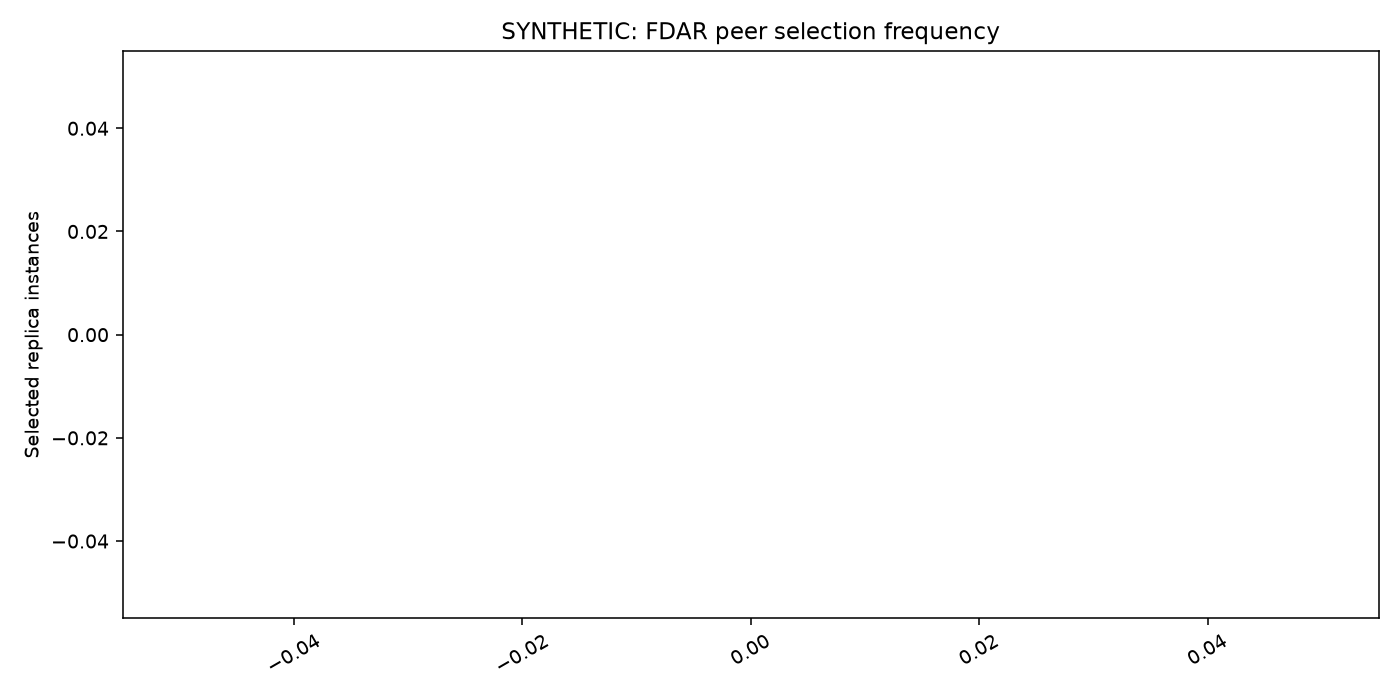
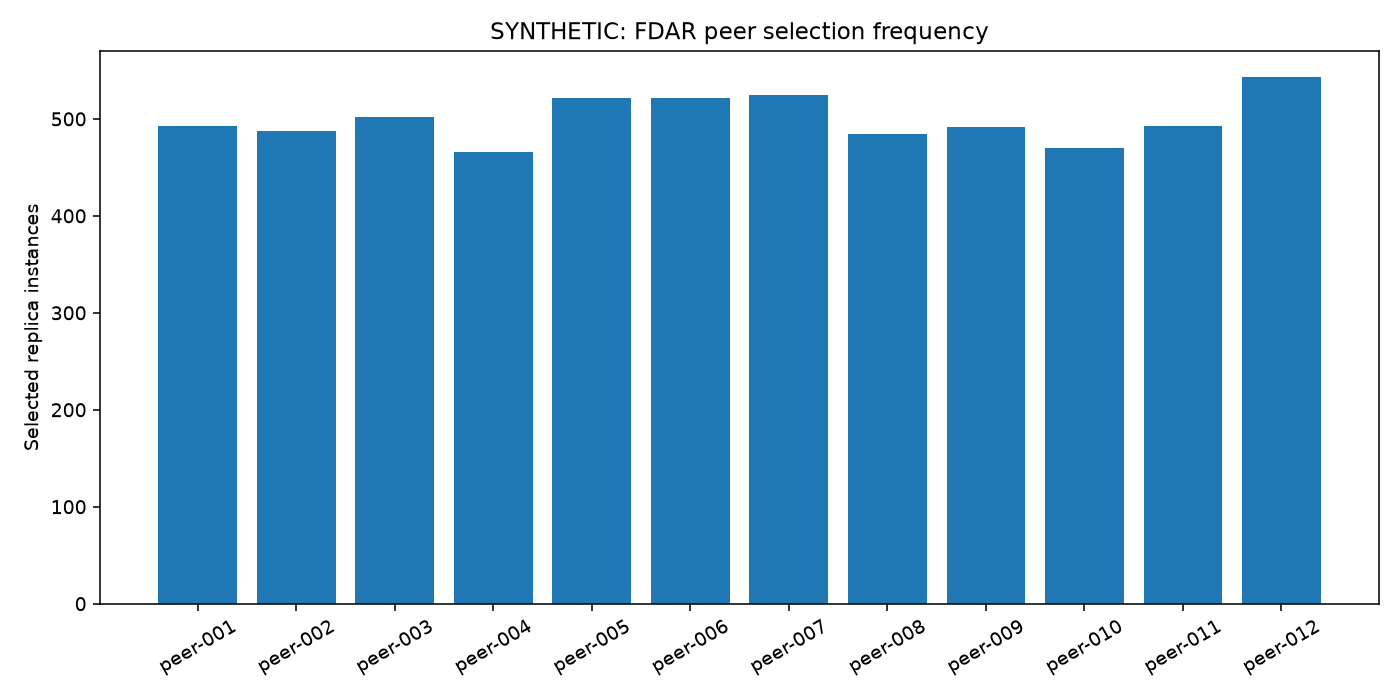
Correct synthetic evaluation plots

diff --git a/src/location_verifier/experiments/plotting.py b/src/location_verifier/experiments/plotting.py
@@ -11,14 +11,60 @@ matplotlib.use("Agg")
 import matplotlib.pyplot as plt
 
 
+def _verification_status_counts(records: list[dict[str, Any]]) -> Counter[str]:
+    """Count generated peer statuses once per trial and distinct sweep offset."""
+    counts: Counter[str] = Counter()
+    seen: set[tuple[int, int, str, float | None]] = set()
+    for row in records:
+        identity = (
+            row["seed"],
+            row["trial"],
+            row["scenario"],
+            row.get("synthetic_location_mismatch_distance_km"),
+        )
+        if identity not in seen:
+            counts.update(row["verification_statuses"].values())
+            seen.add(identity)
+    return counts
+
+
+def _scenario_policy_categories(rows: list[dict[str, Any]]) -> tuple[list[tuple[str, str]], list[str]]:
+    """Build explicit x-axis categories when scenarios vary placement policy."""
+    categories = sorted({(row["scenario"], row["policy"]) for row in rows})
+    policies_by_scenario: dict[str, set[str]] = defaultdict(set)
+    for scenario, policy in categories:
+        policies_by_scenario[scenario].add(policy)
+    labels = [
+        scenario if len(policies_by_scenario[scenario]) == 1 else f"{scenario} ({policy})"
+        for scenario, policy in categories
+    ]
+    return categories, labels
+
+
 def plot_results(results: dict[str, Any], output_dir: str | Path) -> tuple[Path, ...]:
-    """Write the required plots; all titles/axes explicitly identify synthetic data."""
+    """Write only plots supported by the supplied synthetic records."""
 
     root = Path(output_dir)
     root.mkdir(parents=True, exist_ok=True)
     records = results["records"]
     summaries = results["aggregated"]
     paths: list[Path] = []
+    filenames = (
+        "01_suspicious_selection.png",
+        "02_domain_diversity.png",
+        "03_placement_success.png",
+        "04_reconfiguration_movement.png",
+        "05_peer_selection_frequency.png",
+        "06_domain_selection_frequency.png",
+        "07_verification_status_distribution.png",
+        "08_synthetic_ground_truth_detection.png",
+        "09_synthetic_location_distance_sweep.png",
+    )
+
+    # Remove stale plots from a prior run in the same output directory. These
+    # names are reserved for this function's generated artifacts.
+    for filename in filenames:
+        (root / filename).unlink(missing_ok=True)
 
     def save(fig, filename: str) -> None:
         fig.tight_layout()
@@ -28,96 +74,112 @@ def plot_results(results: dict[str, Any], output_dir: str | Path) -> tuple[Path,
         paths.append(path)
 
     # Plot 1: suspicious selection counts by mode/scenario.
-    groups: dict[tuple[str, str], list[int]] = defaultdict(list)
+    groups: dict[tuple[str, str, str], list[int]] = defaultdict(list)
     for row in records:
-        groups[(row["scenario"], row["mode"])].append(row["suspicious_selected_count"])
-    scenarios = sorted({key[0] for key in groups})
-    fig, axis = plt.subplots(figsize=(11, 5))
-    width = 0.38
-    for offset, mode in enumerate(("BASELINE", "FDAR")):
-        values = [sum(groups.get((name, mode), [])) / max(len(groups.get((name, mode), [])), 1) for name in scenarios]
-        axis.bar([index + (offset - 0.5) * width for index in range(len(scenarios))], values, width, label=mode)
-    axis.set(title="SYNTHETIC: Suspicious replicas selected", ylabel="Mean suspicious selected peers", xticks=range(len(scenarios)), xticklabels=scenarios)
-    axis.tick_params(axis="x", labelrotation=30)
-    axis.legend()
-    save(fig, "01_suspicious_selection.png")
+        if row["scenario"] != "distance_sweep":
+            groups[(row["scenario"], row["policy"], row["mode"])].append(row["suspicious_selected_count"])
+    plot1_rows = [row for row in records if row["scenario"] != "distance_sweep"]
+    categories, labels = _scenario_policy_categories(plot1_rows)
+    if categories:
+        fig, axis = plt.subplots(figsize=(11, 5))
+        width = 0.38
+        for offset, mode in enumerate(("BASELINE", "FDAR")):
+            values = [
+                sum(groups.get((scenario, policy, mode), [])) / max(len(groups.get((scenario, policy, mode), [])), 1)
+                for scenario, policy in categories
+            ]
+            axis.bar([index + (offset - 0.5) * width for index in range(len(categories))], values, width, label=mode)
+        axis.set(title="SYNTHETIC: Suspicious replicas selected", ylabel="Mean suspicious selected peers", xticks=range(len(categories)), xticklabels=labels)
+        axis.tick_params(axis="x", labelrotation=30)
+        axis.legend()
+        save(fig, "01_suspicious_selection.png")
 
     # Plot 2: failure-domain diversity ratio.
-    fig, axis = plt.subplots(figsize=(11, 5))
-    for mode, marker in (("BASELINE", "o"), ("FDAR", "s")):
-        rows = [item for item in summaries if item["mode"] == mode and item["scenario"] != "distance_sweep"]
-        axis.plot([item["scenario"] for item in rows], [item["mean_domain_diversity_ratio"] for item in rows], marker=marker, label=mode)
-    axis.set(title="SYNTHETIC: Replica domain diversity", ylabel="Distinct domains / requested replicas", ylim=(0, 1.05))
-    axis.tick_params(axis="x", labelrotation=30)
-    axis.legend()
-    save(fig, "02_domain_diversity.png")
+    diversity_rows = [item for item in summaries if item["scenario"] != "distance_sweep"]
+    if diversity_rows:
+        fig, axis = plt.subplots(figsize=(11, 5))
+        categories, labels = _scenario_policy_categories(diversity_rows)
+        for mode, marker in (("BASELINE", "o"), ("FDAR", "s")):
+            values_by_category = {
+                (item["scenario"], item["policy"]): item["mean_domain_diversity_ratio"]
+                for item in diversity_rows if item["mode"] == mode
+            }
+            axis.plot(labels, [values_by_category.get(category, float("nan")) for category in categories], marker=marker, label=mode)
+        axis.set(title="SYNTHETIC: Replica domain diversity", ylabel="Distinct domains / requested replicas", ylim=(0, 1.05))
+        axis.tick_params(axis="x", labelrotation=30)
+        axis.legend()
+        save(fig, "02_domain_diversity.png")
 
     # Plot 3: placement success rate.
-    fig, axis = plt.subplots(figsize=(11, 5))
-    for mode, marker in (("BASELINE", "o"), ("FDAR", "s")):
-        rows = [item for item in summaries if item["mode"] == mode and item["scenario"] != "distance_sweep"]
-        axis.plot([item["scenario"] for item in rows], [item["placement_success_rate"] for item in rows], marker=marker, label=mode)
-    axis.set(title="SYNTHETIC: Placement success rate", ylabel="Successful placement attempts / attempts", ylim=(0, 1.05))
-    axis.tick_params(axis="x", labelrotation=30)
-    axis.legend()
-    save(fig, "03_placement_success.png")
+    success_rows = [item for item in summaries if item["scenario"] != "distance_sweep"]
+    if success_rows:
+        fig, axis = plt.subplots(figsize=(11, 5))
+        categories, labels = _scenario_policy_categories(success_rows)
+        for mode, marker in (("BASELINE", "o"), ("FDAR", "s")):
+            values_by_category = {
+                (item["scenario"], item["policy"]): item["placement_success_rate"]
+                for item in success_rows if item["mode"] == mode
+            }
+            axis.plot(labels, [values_by_category.get(category, float("nan")) for category in categories], marker=marker, label=mode)
+        axis.set(title="SYNTHETIC: Placement success rate", ylabel="Successful placement attempts / attempts", ylim=(0, 1.05))
+        axis.tick_params(axis="x", labelrotation=30)
+        axis.legend()
+        save(fig, "03_placement_success.png")
 
     # Plot 4: reconfiguration movement.
     repair_rows = [item for item in records if item["reconfiguration_event_count"]]
     movement: dict[str, list[int]] = defaultdict(list)
     for item in repair_rows:
         movement[item["mode"]].append(item["movement_count"])
-    fig, axis = plt.subplots(figsize=(7, 4))
-    axis.bar(list(movement) or ["FDAR"], [sum(values) / len(values) for values in movement.values()] or [0])
-    axis.set(title="SYNTHETIC: Reconfiguration movement plan", ylabel="Mean replicas moved (plans only)")
-    save(fig, "04_reconfiguration_movement.png")
+    if movement:
+        fig, axis = plt.subplots(figsize=(7, 4))
+        axis.bar(list(movement), [sum(values) / len(values) for values in movement.values()])
+        axis.set(title="SYNTHETIC: Reconfiguration movement plan", ylabel="Mean replicas moved (plans only)")
+        save(fig, "04_reconfiguration_movement.png")
 
     # Plot 5: peer selection frequency across many objects.
     peer_counts: Counter[str] = Counter()
     for row in records:
         if row["scenario"] in {"multiple_objects", "repeated_trials"} and row["mode"] == "FDAR":
             peer_counts.update(row["selected_peers"])
-    fig, axis = plt.subplots(figsize=(10, 5))
-    axis.bar(list(sorted(peer_counts)), [peer_counts[key] for key in sorted(peer_counts)])
-    axis.set(title="SYNTHETIC: FDAR peer selection frequency", ylabel="Selected replica instances")
-    axis.tick_params(axis="x", labelrotation=30)
-    save(fig, "05_peer_selection_frequency.png")
+    if peer_counts:
+        fig, axis = plt.subplots(figsize=(10, 5))
+        axis.bar(list(sorted(peer_counts)), [peer_counts[key] for key in sorted(peer_counts)])
+        axis.set(title="SYNTHETIC: FDAR peer selection frequency", ylabel="Selected replica instances")
+        axis.tick_params(axis="x", labelrotation=30)
+        save(fig, "05_peer_selection_frequency.png")
 
     # Plot 6: domain selection frequency across many objects.
     domain_counts: Counter[str] = Counter()
     for row in records:
         if row["scenario"] in {"multiple_objects", "repeated_trials"} and row["mode"] == "FDAR":
             domain_counts.update(row["selected_domains"])
-    fig, axis = plt.subplots(figsize=(9, 5))
-    axis.bar(list(sorted(domain_counts)), [domain_counts[key] for key in sorted(domain_counts)])
-    axis.set(title="SYNTHETIC: FDAR failure-domain selection frequency", ylabel="Selected replica instances")
-    save(fig, "06_domain_selection_frequency.png")
+    if domain_counts:
+        fig, axis = plt.subplots(figsize=(9, 5))
+        axis.bar(list(sorted(domain_counts)), [domain_counts[key] for key in sorted(domain_counts)])
+        axis.set(title="SYNTHETIC: FDAR failure-domain selection frequency", ylabel="Selected replica instances")
+        save(fig, "06_domain_selection_frequency.png")
 
     # Plot 7: generated verification status distribution.
-    status_counts: Counter[str] = Counter()
-    status_seen: set[tuple[int, int, str]] = set()
-    for row in records:
-        identity = (row["seed"], row["trial"], row["scenario"])
-        if identity not in status_seen:
-            status_counts.update(row["verification_statuses"].values())
-            status_seen.add(identity)
-    fig, axis = plt.subplots(figsize=(7, 4))
-    axis.bar(list(status_counts), [status_counts[key] for key in status_counts])
-    axis.set(title="SYNTHETIC: Phase 3 verification statuses", ylabel="Generated peers")
-    save(fig, "07_verification_status_distribution.png")
+    status_counts = _verification_status_counts(records)
+    if status_counts:
+        fig, axis = plt.subplots(figsize=(7, 4))
+        axis.bar(list(status_counts), [status_counts[key] for key in status_counts])
+        axis.set(title="SYNTHETIC: Phase 3 verification statuses", ylabel="Generated peers")
+        save(fig, "07_verification_status_distribution.png")
 
     # Plot 8: verification detection/false alarm only where synthetic truth is supplied.
     gt_rows = [item for item in summaries if item["mode"] == "FDAR" and item["synthetic_ground_truth"]]
     scenarios_gt = [item for item in gt_rows if item["mean_verification_detection_rate"] is not None]
-    fig, axis = plt.subplots(figsize=(10, 5))
     if scenarios_gt:
+        fig, axis = plt.subplots(figsize=(10, 5))
         names = [item["scenario"] for item in scenarios_gt]
         axis.bar(names, [item["mean_verification_detection_rate"] for item in scenarios_gt], label="synthetic detection rate")
         axis.plot(names, [item["mean_verification_false_alarm_rate"] or 0 for item in scenarios_gt], "o-", label="synthetic false-alarm rate")
+        axis.set(title="SYNTHETIC GROUND TRUTH ONLY: verification detection", ylabel="Rate (not real-world accuracy)", ylim=(0, 1.05))
+        axis.tick_params(axis="x", labelrotation=30)
         axis.legend()
-    axis.set(title="SYNTHETIC GROUND TRUTH ONLY: verification detection", ylabel="Rate (not real-world accuracy)", ylim=(0, 1.05))
-    axis.tick_params(axis="x", labelrotation=30)
-    save(fig, "08_synthetic_ground_truth_detection.png")
+        save(fig, "08_synthetic_ground_truth_detection.png")
 
     # Plot 9: controlled location-claim mismatch sweep, not empirical calibration.
     sweep_rows = [
@@ -126,9 +188,10 @@ def plot_results(results: dict[str, Any], output_dir: str | Path) -> tuple[Path,
         and item["synthetic_location_mismatch_distance_km"] is not None
     ]
     sweep_rows.sort(key=lambda item: item["synthetic_location_mismatch_distance_km"])
-    fig, axis = plt.subplots(figsize=(9, 5))
     measurable = [item for item in sweep_rows if item["mean_location_verification_detection_rate"] is not None]
-    if measurable:
+    if sweep_rows:
+        fig, axis = plt.subplots(figsize=(9, 5))
+    if sweep_rows and measurable:
         distances = [item["synthetic_location_mismatch_distance_km"] for item in measurable]
         axis.plot(
             distances,
@@ -143,13 +206,13 @@ def plot_results(results: dict[str, Any], output_dir: str | Path) -> tuple[Path,
             marker="s",
             label="synthetic false alarm",
         )
-    axis.set(
-        title="SYNTHETIC MODEL SWEEP ONLY: location-claim mismatch",
-        xlabel="Generated actual-to-claimed offset (km)",
-        ylabel="Rate under configured model (not empirical accuracy)",
-        ylim=(0, 1.05),
-    )
-    if measurable or sweep_rows:
+    if sweep_rows:
+        axis.set(
+            title="SYNTHETIC MODEL SWEEP ONLY: location-claim mismatch",
+            xlabel="Generated actual-to-claimed offset (km)",
+            ylabel="Rate under configured model (not empirical accuracy)",
+            ylim=(0, 1.05),
+        )
         axis.legend()
-    save(fig, "09_synthetic_location_distance_sweep.png")
+        save(fig, "09_synthetic_location_distance_sweep.png")
     return tuple(paths)

diff --git a/tests/test_evaluation.py b/tests/test_evaluation.py
@@ -10,7 +10,11 @@ from location_verifier.experiments.generator import generate_trial
 from location_verifier.inference.distance import haversine_distance_km
 from location_verifier.experiments.metrics import placement_metrics, reconfiguration_metrics
 from location_verifier.experiments.models import EvaluationOptions, EvaluationSettings
-from location_verifier.experiments.plotting import plot_results
+from location_verifier.experiments.plotting import (
+    _scenario_policy_categories,
+    _verification_status_counts,
+    plot_results,
+)
 from location_verifier.experiments.runner import load_evaluation_settings, run_evaluation
 from location_verifier.experiments.scenarios import ScenarioName
 from location_verifier.experiments.serialization import write_results
@@ -267,10 +271,10 @@ def test_repeated_trial_aggregation_groups_seeded_object_placements(phase_config
     assert fdar_summary["mean_reconfiguration_event_count"] == 0
 
 
-def test_plotting_generates_all_eight_required_plots(phase_configs, tmp_path) -> None:
+def test_plotting_generates_all_supported_plots_with_policy_categories(phase_configs, tmp_path) -> None:
     inference, placement = phase_configs
     options = EvaluationOptions(
-        scenarios=(ScenarioName.ALL_HONEST, ScenarioName.ONE_SUSPICIOUS, ScenarioName.STATUS_CHANGE, ScenarioName.MULTIPLE_OBJECTS, ScenarioName.DISTANCE_SWEEP),
+        scenarios=(ScenarioName.ALL_HONEST, ScenarioName.ONE_SUSPICIOUS, ScenarioName.UNCERTAIN_PEERS, ScenarioName.STATUS_CHANGE, ScenarioName.MULTIPLE_OBJECTS, ScenarioName.DISTANCE_SWEEP),
         seeds=(42,), trials=1, objects=3, output_dir=str(tmp_path), peers=12,
         witnesses=5, replication_factor=3, failure_domain_level="building", measurements_per_witness=10,
         distance_sweep_km=(0, 50, 500, 1000),
@@ -281,6 +285,50 @@ def test_plotting_generates_all_eight_required_plots(phase_configs, tmp_path) ->
 
     assert len(paths) == 9
     assert all(path.exists() and path.stat().st_size > 0 for path in paths)
+    categories, labels = _scenario_policy_categories(results["aggregated"])
+    uncertain_labels = {
+        labels[index] for index, (scenario, _) in enumerate(categories)
+        if scenario == "uncertain_peers"
+    }
+    assert uncertain_labels == {
+        "uncertain_peers (balanced)",
+        "uncertain_peers (permissive)",
+        "uncertain_peers (strict)",
+    }
+
+
+def test_distance_only_plotting_omits_unsupported_charts_and_counts_each_offset(phase_configs, tmp_path) -> None:
+    inference, placement = phase_configs
+    options = EvaluationOptions(
+        scenarios=(ScenarioName.DISTANCE_SWEEP,), seeds=(42,), trials=1,
+        objects=1, output_dir=str(tmp_path), peers=6, witnesses=5,
+        replication_factor=3, failure_domain_level="building", measurements_per_witness=10,
+        distance_sweep_km=(500, 1000),
+    )
+    results = run_evaluation(options, inference, placement)
+    paths = plot_results(results, tmp_path / "plots")
+
+    assert {path.name for path in paths} == {
+        "07_verification_status_distribution.png",
+        "09_synthetic_location_distance_sweep.png",
+    }
+    assert all(path.exists() and path.stat().st_size > 0 for path in paths)
+
+    # Each offset contributes one generated peer-status set; BASELINE and
+    # FDAR are duplicate views of that same trial evidence.
+    status_records = [
+        {
+            "seed": 42,
+            "trial": 0,
+            "scenario": "distance_sweep",
+            "mode": mode,
+            "synthetic_location_mismatch_distance_km": offset,
+            "verification_statuses": {"peer-a": "PLAUSIBLE", "peer-b": "UNCERTAIN"},
+        }
+        for offset in (500.0, 1000.0)
+        for mode in ("BASELINE", "FDAR")
+    ]
+    assert _verification_status_counts(status_records) == {"PLAUSIBLE": 2, "UNCERTAIN": 2}
 
 
 def test_distance_sweep_isolates_coordinate_offset_and_records_synthetic_location_metrics(phase_configs, tmp_path) -> None:

diff --git a/docs/synthetic_results.md b/docs/synthetic_results.md
@@ -1,8 +1,10 @@
 # Synthetic evaluation plots
 
-These figures are committed so they can be viewed directly on GitHub. They come from a generated distance-sweep evaluation and are **synthetic model results**, not measurements from campus or geographically distributed peers. The rates shown describe only generated scenarios under the configured latency assumptions, witness layout, and noise. They are not field accuracy, calibrated probabilities, or evidence of physical location.
+These figures are deterministic **synthetic model results**. They are not measurements from campus or geographically distributed peers, field accuracy, calibrated probabilities, or proof of physical location. The configured latency assumptions, generated witness layout, and noise determine the plotted rates. See [Evaluation Engine](evaluation_engine.md) for the metric definitions and limits.
 
-The reported 30-trial run flagged 0% of generated mismatches at 500, 1,000, 2,000, and 5,000 km; 20% at 8,000 km; and all generated mismatches at 10,000 and 15,000 km. This run does not support a 500 km verification boundary. See [Evaluation Engine](evaluation_engine.md) for interpretation and limitations.
+Plots 1–8 come from the full seeded synthetic evaluation suite. Plot 9 comes from a separate 30-trial location-mismatch sweep. Each chart is generated only when its source run contains the scenario data required for that chart; unsupported charts are omitted instead of being written as empty or zero-valued figures. The status distribution counts each generated trial and each distinct mismatch offset once, without counting the duplicated BASELINE/FDAR records twice.
+
+The 30-trial sweep reports 0% generated mismatch detection at 500, 1,000, 2,000, and 5,000 km; 20% at 8,000 km; and 100% at 10,000 and 15,000 km. The generated false-alarm rate is 0% at each offset. These results describe this configured synthetic model only and do not establish a real-world distance threshold.
 
 ## Plots
 
@@ -44,11 +46,13 @@ The reported 30-trial run flagged 0% of generated mismatches at 500, 1,000, 2,00
 
 ## Reproduce
 
-From the repository root:
+From the repository root, regenerate the full suite (plots 1–8) and the independent 30-trial distance sweep (plot 9):
 
 ```powershell
-python experiments/run_evaluation.py --scenario distance_sweep --trials 30 --distance-sweep-km 0,50,250,500,1000,2000,5000,8000,10000,15000 --output-dir data/experiments/distance_sweep_extended
-python experiments/plot_results.py --input data/experiments/distance_sweep_extended/raw/evaluation_records.json --aggregated data/experiments/distance_sweep_extended/aggregated/evaluation_summary.json --output-dir data/experiments/distance_sweep_extended/plots
+python experiments/run_evaluation.py --output-dir data/experiments
+python experiments/run_evaluation.py --scenario distance_sweep --trials 30 --distance-sweep-km 500,1000,2000,5000,8000,10000,15000 --output-dir data/experiments/distance_sweep_extended
+Copy-Item data/experiments/plots/0[1-8]_*.png docs/figures/synthetic-distance-sweep/
+Copy-Item data/experiments/distance_sweep_extended/plots/09_synthetic_location_distance_sweep.png docs/figures/synthetic-distance-sweep/
 ```
 
-The generated JSON/CSV records and other run outputs stay under the ignored `data/experiments/` directory; only these selected, explicitly synthetic PNG figures are included in the repository.
+The first command uses the scenarios, seeds, and parameters in `configs/evaluation.yaml`. The second command specifies the exact offsets used for the 30-trial curve. Generated JSON/CSV records, manifests, and intermediate plots remain under the ignored `data/experiments/` directory; the selected, explicitly synthetic PNG figures are committed here.
